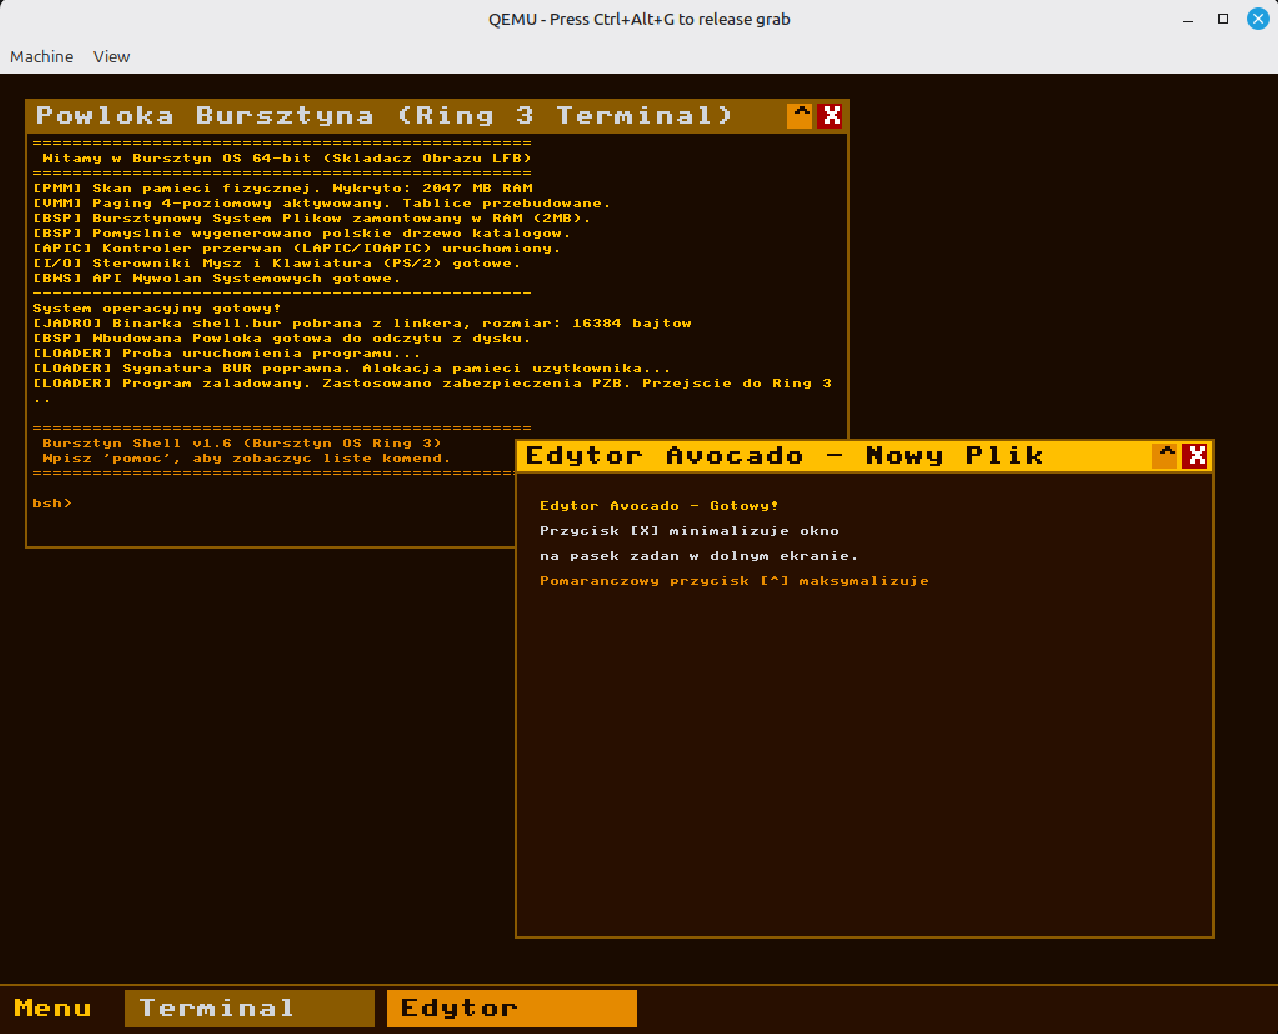
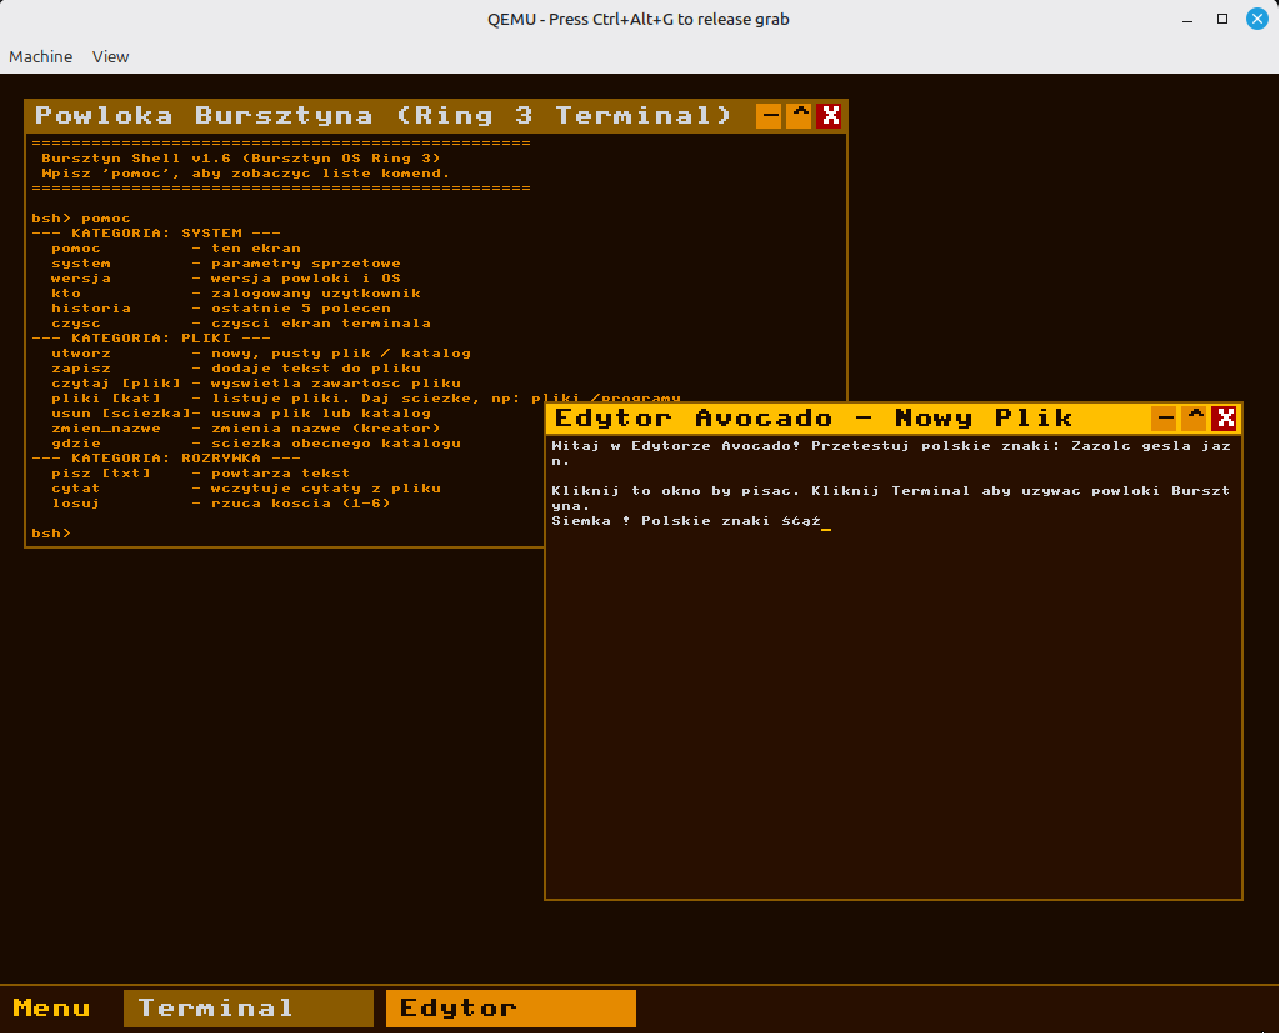
Aktualizacja Readme

diff --git a/README.md b/README.md
@@ -10,6 +10,9 @@ System jest rozwijany z myślą o architekturze x86-64, implementując własne J
 
 # Programy w Bursztynie powłoka systemowa shell i prosty notatnik
 ![alt](image/natywny-sterownik-bochs-vbe.png)
+![alt](image/bursztyn1.png)
+![alt](image/bursztyn-terminal.png)
+
 
 
 ## Dostępne 16 komend w Shellu